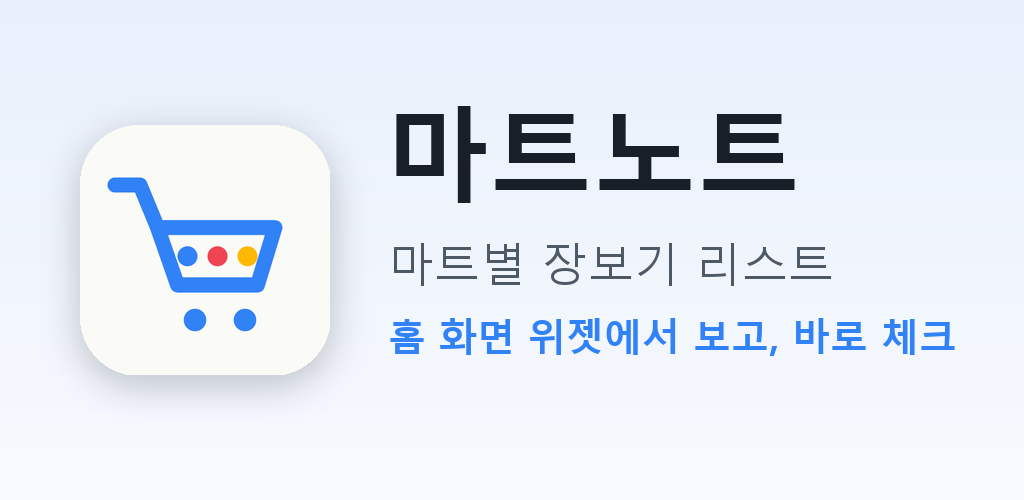
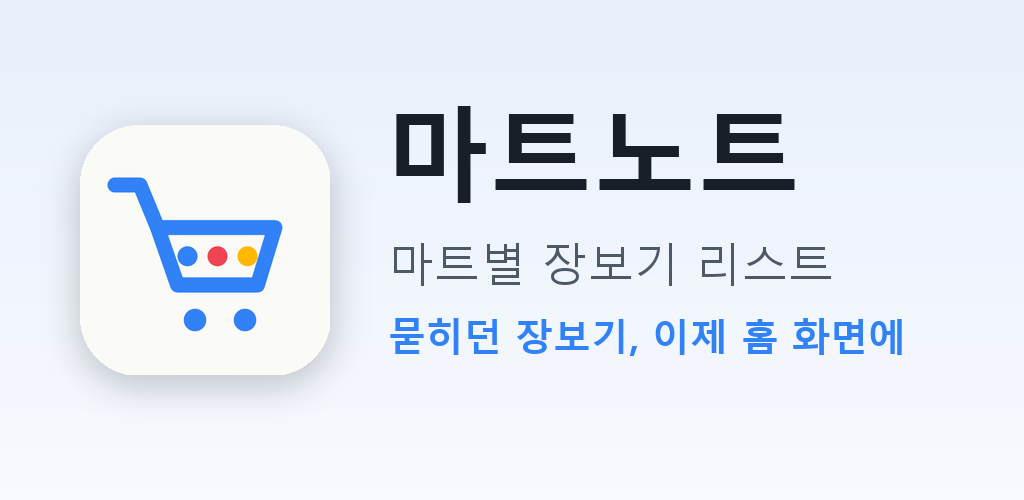
docs(1.4.0): 스토어 스크린샷을 앱을 만든 이유 순서로 (묻힌 메모 → 옮기기 → 홈 화면 위젯)

Changed region(s): [[0.375, 0.63, 0.9375, 0.72]]

diff --git a/출시자료_v1.4.0/index.html b/출시자료_v1.4.0/index.html
@@ -189,18 +189,18 @@
   <div class="shots">
 
       <figure>
-        <a href="1_스크린샷/01_widget_home.png" target="_blank"><img src="1_스크린샷/01_widget_home.png" alt="홈 화면 위젯" loading="lazy"></a>
-        <figcaption><b>1. 홈 화면 위젯</b><br>마트 와서 뭐 사러 왔더라?</figcaption>
+        <a href="1_스크린샷/01_memo_lost.png" target="_blank"><img src="1_스크린샷/01_memo_lost.png" alt="나에게 보내기에 묻힌 메모" loading="lazy"></a>
+        <figcaption><b>1. 나에게 보내기에 묻힌 메모</b><br>나에게 보내기로 보낸 장보기 또 찾고 계셨죠?</figcaption>
       </figure>
 
       <figure>
-        <a href="1_스크린샷/02_vs_memo.png" target="_blank"><img src="1_스크린샷/02_vs_memo.png" alt="나에게 보내기에 묻힌 메모" loading="lazy"></a>
-        <figcaption><b>2. 나에게 보내기에 묻힌 메모</b><br>나에게 보내기로 보낸 장보기 또 찾고 계셨죠?</figcaption>
+        <a href="1_스크린샷/02_share_import.png" target="_blank"><img src="1_스크린샷/02_share_import.png" alt="공유로 한 번에 옮기기" loading="lazy"></a>
+        <figcaption><b>2. 공유로 한 번에 옮기기</b><br>써놨던 메모, 공유 한 번이면 정리 끝</figcaption>
       </figure>
 
       <figure>
-        <a href="1_스크린샷/03_share_import.png" target="_blank"><img src="1_스크린샷/03_share_import.png" alt="공유로 한 번에 옮기기" loading="lazy"></a>
-        <figcaption><b>3. 공유로 한 번에 옮기기</b><br>써놨던 메모, 공유 한 번이면 정리 끝</figcaption>
+        <a href="1_스크린샷/03_widget_home.png" target="_blank"><img src="1_스크린샷/03_widget_home.png" alt="홈 화면 위젯" loading="lazy"></a>
+        <figcaption><b>3. 홈 화면 위젯</b><br>이제 장보기는 홈 화면에 늘 보여요</figcaption>
       </figure>
 
       <figure>

diff --git a/scripts/compose_store_v5.py b/scripts/compose_store_v5.py
@@ -225,27 +225,27 @@ def feature_graphic():
     d = ImageDraw.Draw(g)
     d.text((385, 150), "마트노트", font=v2.font(FB, 104), fill=TEXT, anchor="lm")
     d.text((388, 262), "마트별 장보기 리스트", font=v2.font(FR, 46), fill=TEXT2, anchor="lm")
-    d.text((388, 335), "홈 화면 위젯에서 보고, 바로 체크", font=v2.font(FB, 38), fill=BRAND, anchor="lm")
+    d.text((388, 335), "묻히던 장보기, 이제 홈 화면에", font=v2.font(FB, 38), fill=BRAND, anchor="lm")
     g.convert("RGB").save(os.path.join(OUT, "feature_graphic_1024x500.png"), "PNG")
     print("saved feature_graphic_1024x500.png")
 
 
 if __name__ == "__main__":
-    v4.shot_single("01_widget_home.png",
-                   ["마트 와서", "뭐 사러 왔더라?"],
-                   "폰만 켜면 홈 화면에 다 적혀 있어요",
-                   hero_screen())
-    # 02: one phone, readable at phone size (the old 2-phone compare was too small to read;
-    # the widget answer is already 01). shot_compare kept for reference.
-    v4.shot_single("02_vs_memo.png",
+    # Story order (user 2026-11-13: the app exists because notes sent to "나에게 보내기"
+    # got lost): 01 can't find it → 02 move it into 마트노트 → 03 now it's always on the
+    # home screen → 04 check it off there → 05 add more → 06 done.
+    v4.shot_single("01_memo_lost.png",
                    ["나에게 보내기로 보낸 장보기", "또 찾고 계셨죠?"],
                    "다른 글 사이에 묻혀서 스크롤만 한참",
                    chat_screen_big())
-    # 03: the answer to 02 — share that buried note into 마트노트, one line/comma = one item.
-    v4.shot_raw("03_share_import.png",
+    v4.shot_raw("02_share_import.png",
                 ["써놨던 메모,", "공유 한 번이면 정리 끝"],
                 "마트만 고르면 하나하나 나눠서 담아줘요",
                 "ss9_share.png")
+    v4.shot_single("03_widget_home.png",
+                   ["이제 장보기는", "홈 화면에 늘 보여요"],
+                   "마트 와서 뭐 사러 왔더라? 할 일이 없어요",
+                   hero_screen())
     v4.shot_single("04_widget_check.png",
                    ["산 건 위젯에서", "동그라미 톡"],
                    "앱을 안 열어도 바로 체크돼요",

diff --git a/scripts/build_release_kit.py b/scripts/build_release_kit.py
@@ -39,9 +39,9 @@ texts = [
 ]
 
 SHOTS = [
-    ("01_widget_home.png", "홈 화면 위젯", "마트 와서 뭐 사러 왔더라?"),
-    ("02_vs_memo.png", "나에게 보내기에 묻힌 메모", "나에게 보내기로 보낸 장보기 또 찾고 계셨죠?"),
-    ("03_share_import.png", "공유로 한 번에 옮기기", "써놨던 메모, 공유 한 번이면 정리 끝"),
+    ("01_memo_lost.png", "나에게 보내기에 묻힌 메모", "나에게 보내기로 보낸 장보기 또 찾고 계셨죠?"),
+    ("02_share_import.png", "공유로 한 번에 옮기기", "써놨던 메모, 공유 한 번이면 정리 끝"),
+    ("03_widget_home.png", "홈 화면 위젯", "이제 장보기는 홈 화면에 늘 보여요"),
     ("04_widget_check.png", "위젯에서 체크", "산 건 위젯에서 동그라미 톡"),
     ("05_name_only.png", "이름만 입력", "생각날 때 이름만 톡 적으면 끝"),
     ("06_done.png", "완료", "다 산 건 '완료' 한 번"),

diff --git a/docs/playstore_listing.md b/docs/playstore_listing.md
@@ -132,14 +132,14 @@
 | 그래픽 이미지(피처) | `docs/playstore_assets/v5_store/feature_graphic_1024x500.png` (새로) | 1024×500 |
 | 휴대전화 스크린샷 | `docs/playstore_assets/v5_store/01~06_*.png` (새로) | 1080×2400 |
 
-> **기존 스크린샷 8장은 모두 삭제하고 6장으로 교체.** 순서:
-> 01 홈 화면 위젯(목록 위젯 전체 + 개수 위젯) "마트 와서 뭐 사러 왔더라?" →
-> 02 나에게 보내기에 묻힌 메모(폰 한 대, 큰 글씨, "내가 써놨던 메모" 표시) "나에게 보내기로 보낸 장보기 또 찾고 계셨죠? / 다른 글 사이에 묻혀서 스크롤만 한참" →
-> 03 그 메모를 공유로 옮기기(실기기 캡처, 여러 항목 담기 시트) "써놨던 메모, 공유 한 번이면 정리 끝 / 마트만 고르면 하나하나 나눠서 담아줘요" →
+> **기존 스크린샷 8장은 모두 삭제하고 6장으로 교체.** 순서 = 앱을 만든 이유 그대로(나에게 보내기에서 못 찾음 → 옮김 → 늘 보임):
+> 01 나에게 보내기에 묻힌 메모(폰 한 대, "내가 써놨던 메모" 표시) "나에게 보내기로 보낸 장보기 또 찾고 계셨죠? / 다른 글 사이에 묻혀서 스크롤만 한참" →
+> 02 그 메모를 공유로 옮기기(실기기 캡처) "써놨던 메모, 공유 한 번이면 정리 끝 / 마트만 고르면 하나하나 나눠서 담아줘요" →
+> 03 홈 화면 위젯(목록 위젯 전체 + 개수 위젯) "이제 장보기는 홈 화면에 늘 보여요 / 마트 와서 뭐 사러 왔더라? 할 일이 없어요" →
 > 04 위젯에서 체크 "산 건 위젯에서 동그라미 톡" →
 > 05 이름만 입력 "생각날 때 이름만 톡 적으면 끝" →
 > 06 완료 "다 산 건 '완료' 한 번"
-> 생성: `python scripts/compose_store_v5.py` (위젯·홈 화면·메신저는 그림, 03·05·06은 실기기 캡처). 피처 문구: "마트별 장보기 리스트 / 홈 화면 위젯에서 보고, 바로 체크" (예전 "말로 1초 추가" 대신).
+> 생성: `python scripts/compose_store_v5.py` (위젯·홈 화면·메신저는 그림, 02·05·06은 실기기 캡처). 피처 문구: "마트별 장보기 리스트 / 묻히던 장보기, 이제 홈 화면에" (예전 "말로 1초 추가" 대신).
 > 이전 세트(v1.3.0 `final/`, 위젯 옛 모양 `v4_widget/`)는 참고용으로만 남김.
 
 ---|---|---|

diff --git a/docs/CHANGELOG.md b/docs/CHANGELOG.md
@@ -5,6 +5,7 @@
 
 ## 2026-11-13 · v1.4.0 (vc10) 마무리 — 쇼핑 앱 열기 수정·스토어 이미지 6장
 
+- 2026-11-13 · (코드 아님) 스토어 스크린샷 순서를 **앱을 만든 이유 순서**로: 01 나에게 보내기에 묻힌 메모 → 02 공유로 옮기기 → 03 "이제 장보기는 홈 화면에 늘 보여요"(위젯) → 04 위젯 체크 → 05 이름만 → 06 완료. 피처 그래픽 문구 "묻히던 장보기, 이제 홈 화면에" · `scripts/compose_store_v5.py`, `scripts/build_release_kit.py`, `docs/playstore_listing.md`
 - 2026-11-13 · **알리 🔍 → 알리 앱 검색 결과로 바로**: `https://www.aliexpress.com/w/wholesale-<검색어>.html`을 알리 앱으로 보내면 앱 안 검색 결과가 열림(S24+ 확인, 띄어쓰기 포함). `aliexpress://search?…`는 첫 화면에서 멈춰서 안 씀 · `util/StoreSearch.kt`
 - 2026-11-13 · (코드 아님) 스토어 스크린샷 6장으로: 02 표시 "장보기 메모" → **"내가 써놨던 메모"**, 새 03 **"써놨던 메모, 공유 한 번이면 정리 끝"**(02의 메모를 공유해 여러 항목 담기 시트, 실기기 캡처 `raw/ss9_share.png`) — "불편 → 마트노트는 이렇게 편함" 흐름. 이후 번호 하나씩 밀림 · `scripts/compose_store_v5.py`, `scripts/build_release_kit.py`, `docs/playstore_listing.md`
 - 2026-11-13 · (코드 아님) 스토어 스크린샷 02: 폰 두 대(메신저 vs 위젯) 비교는 폰 화면에서 글씨가 안 읽혀서 **메신저 폰 한 대 + 큰 글씨 + "장보기 메모" 표시**로 바꿈(위젯은 01에서 보여줌), 부제 "다른 글 사이에 묻혀서 스크롤만 한참" · `scripts/compose_store_v5.py`, `docs/playstore_assets/v5_store/02_vs_memo.png`
